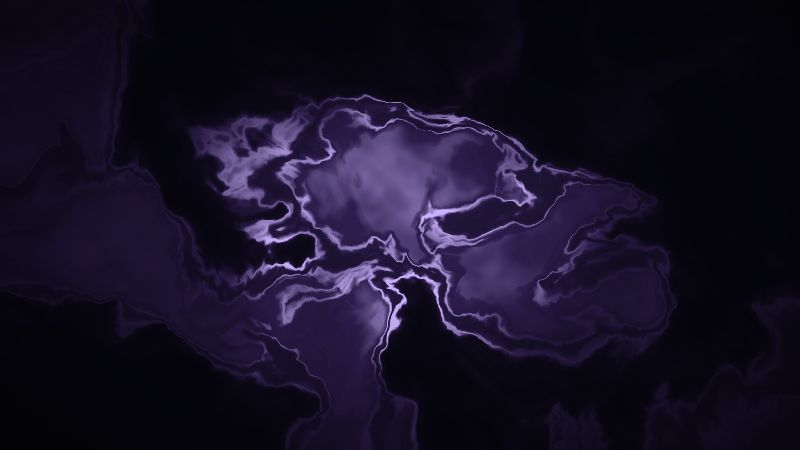
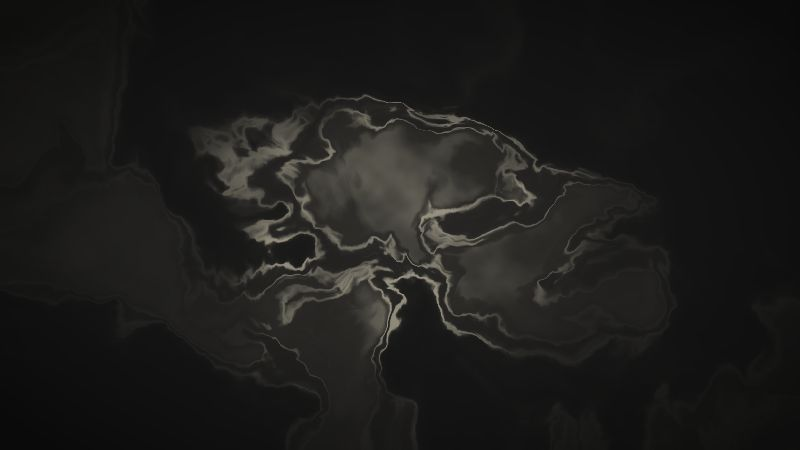
Home: Explore smoke in the site's charcoal tones
Grey smoke on #1d1d1d with a hint of warmth instead of violet, crimson
and blue, so the tiles blend with the cards and the yellow icons pop.

Claude-Session: https://claude.ai/code/session_01292WHNyRzSgzG2jomRwcCZ

Changed region(s): [[0.2188, 0.1867, 0.7812, 0.8711], [0.5, 0.8711, 0.5312, 0.9022]]

diff --git a/css/style.css b/css/style.css
@@ -4646,7 +4646,7 @@ a.tk-item:hover,
   color: var(--fourteenth-color);
 }
 
-/* Explore tiles (About, Favorites, Lab): a dark smoke background per section
+/* Explore tiles (About, Favorites, Lab): soft grey smoke in the site's charcoal
    (img/smoke/, made with tools/smoke-tiles.py) that drifts slowly, with a light
    dark layer on top so the hand, icons and clock stand out. */
 .hm-board,
@@ -4654,7 +4654,7 @@ a.tk-item:hover,
 .hm-hello {
   position: relative;
   overflow: hidden;
-  background: #0b0b10 center / 135% auto no-repeat;
+  background: #1d1d1d center / 135% auto no-repeat;
   box-shadow: inset 0 0 0 1px rgba(255, 255, 255, .06);
   animation: hm-smoke 18s ease-in-out infinite alternate;
 }
@@ -4679,7 +4679,7 @@ a.tk-item:hover,
   position: absolute;
   inset: 0;
   border-radius: inherit;
-  background: rgba(8, 8, 12, .15);
+  background: rgba(29, 29, 29, .2);
   pointer-events: none;
 }
 

diff --git a/tools/smoke-tiles.py b/tools/smoke-tiles.py
@@ -49,6 +49,7 @@ def smoke(seed, dark, mid, light, glow_xy=(.5, .5), out='s.jpg'):
 
 if __name__ == '__main__':
     o = sys.argv[1]
-    smoke(11, (7, 6, 16), (46, 30, 78), (205, 180, 255), out=f'{o}/about.jpg')     # violet smoke
-    smoke(23, (8, 5, 10), (70, 22, 34), (255, 150, 165), out=f'{o}/favorites.jpg') # crimson smoke
-    smoke(37, (5, 8, 16), (28, 44, 82), (190, 220, 255), out=f'{o}/lab.jpg')       # icy blue smoke
+    # site charcoal (#1d1d1d / #242424) with soft grey wisps, a hint of the yellow accent
+    smoke(11, (24, 24, 24), (46, 45, 42), (150, 145, 128), out=f'{o}/about.jpg')
+    smoke(23, (24, 24, 24), (46, 45, 42), (150, 145, 128), out=f'{o}/favorites.jpg')
+    smoke(37, (24, 24, 24), (46, 45, 42), (150, 145, 128), out=f'{o}/lab.jpg')
